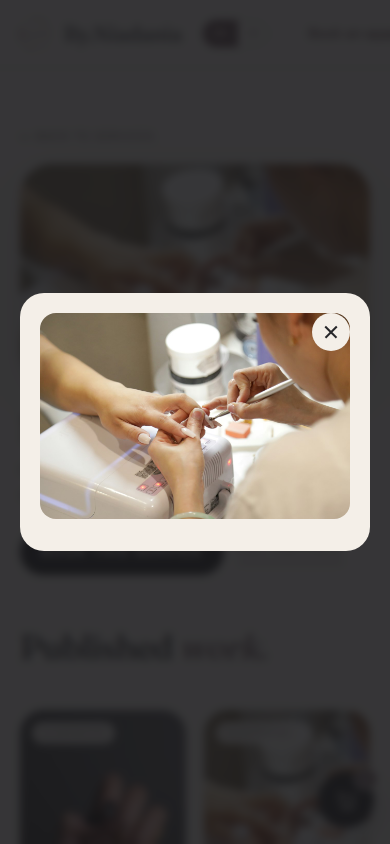
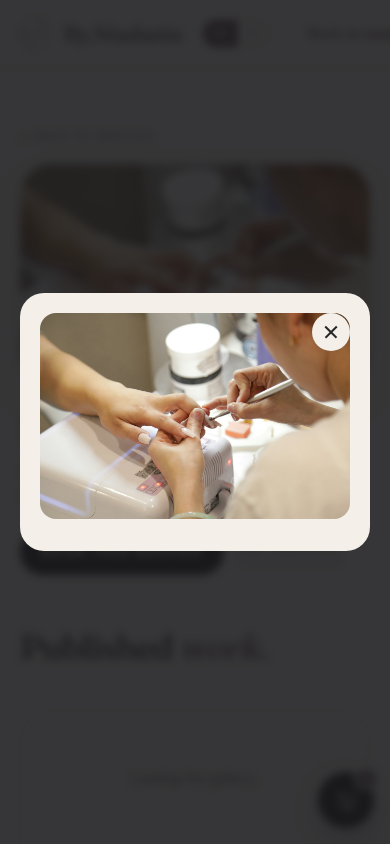
Layout: price-row grid columns for cart buttons; mobile full-width cart-add-btn

Changed region(s): [[0.0615, 0.8626, 0.3385, 1.0], [0.6462, 0.9858, 0.7077, 1.0]]

diff --git a/style.css b/style.css
@@ -506,8 +506,8 @@ input.invalid,select.invalid{border-color:#a05151}
 .cart-form-note{margin:0;font-size:11px;color:var(--muted);font-style:italic}
 .cart-actions .button{justify-content:center;width:100%}
 .cart-actions .text-link{justify-self:center;background:none;border:0}
-.cart-add-btn{min-height:40px;padding:9px 18px;font-size:10px;margin-top:10px}
-.cart-variant-row{display:flex;gap:10px;align-items:center;margin-top:10px;flex-wrap:wrap}
+.cart-add-btn{min-height:44px;font-size:12px;padding:9px 18px;margin-top:0;flex-shrink:0}
+.cart-variant-row{display:flex;gap:10px;align-items:center;margin-top:0;flex-wrap:wrap}
 .cart-variant-row .cart-add-btn{margin-top:0}
 .cart-variant-select{
   border:1px solid var(--line);border-radius:100px;padding:9px 16px;background:var(--paper);
@@ -538,12 +538,28 @@ input.invalid,select.invalid{border-color:#a05151}
   text-decoration:none;cursor:pointer;white-space:nowrap;max-width:100%;
   transition:background .2s,color .2s,border-color .2s;
 }
-.cart-add-btn{min-height:44px;font-size:12px;padding:9px 18px}
-.price-row{flex-wrap:wrap}
+
+/* ================= Pricelist layout =================
+   Stable grid: name zone (col 1) + price (col 2) + button zone (col 3).
+   Long service names wrap inside their own column, price & button stay
+   aligned across all rows. Variant rows span the full width below. */
+.price-row{display:grid;grid-template-columns:1fr auto 170px;align-items:center;gap:12px 20px}
 .price-row>strong{white-space:nowrap}
+.price-row .cart-btn-zone{display:flex;justify-content:flex-end}
+.price-row .cart-variant-row{grid-column:1/-1;margin-top:0;justify-content:flex-end}
+.price-row .cart-variant-row .cart-variant-select{flex:0 1 auto}
+@media(max-width:900px){
+  .price-row{grid-template-columns:1fr auto 150px}
+}
 @media(max-width:600px){
-  .price-row{display:flex;gap:10px}
-  .price-row>div{flex:1 1 auto;min-width:0}
+  .price-row{grid-template-columns:1fr auto;gap:8px 10px;padding:14px 16px}
+  .price-row>strong{align-self:start;padding-top:5px}
+  .price-row .cart-btn-zone,.price-row .cart-variant-row{grid-column:1/-1}
+  .price-row .cart-btn-zone{justify-content:stretch}
+  .price-row .cart-btn-zone .cart-add-btn{width:100%}
+  .price-row .cart-variant-row{justify-content:space-between}
+  .cart-variant-select{max-width:none;flex:1 1 auto}
+  .price-row .cart-variant-row .cart-add-btn{flex:1 1 auto;width:auto}
 }
 
 /* ================= Reduced motion already covered globally above ================= */

diff --git a/script.js b/script.js
@@ -1746,7 +1746,10 @@ function makeCartFloatDraggable(el) {
       }, true);
       rowEl.appendChild(variantRow);
     } else {
-      rowEl.appendChild(btn);
+      const btnWrap = document.createElement("div");
+      btnWrap.className = "cart-btn-zone";
+      btnWrap.appendChild(btn);
+      rowEl.appendChild(btnWrap);
     }
   });
   applyCartButtonLanguage();
